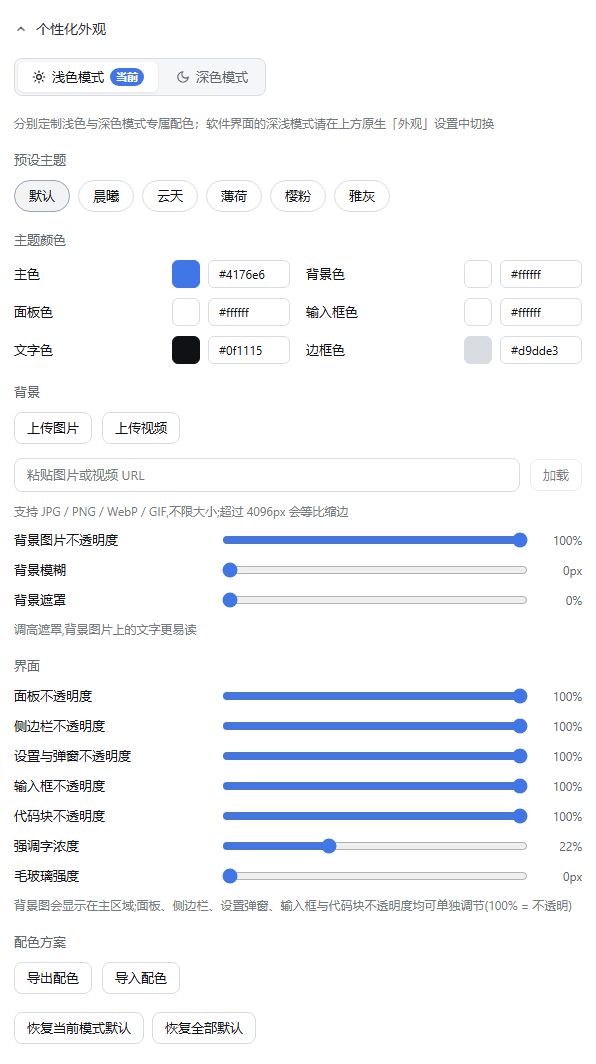
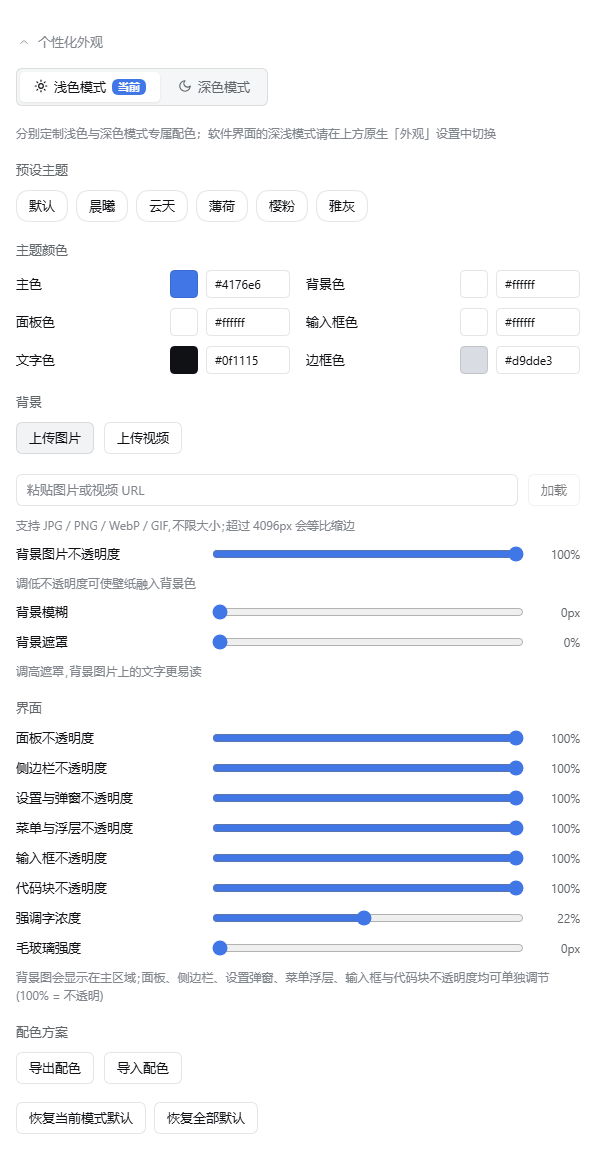
fix(applier,ui): hide translucent sidebar fade stripe, drop stale hint, and refresh docs screenshots

diff --git a/src/client/applier.ts b/src/client/applier.ts
@@ -429,6 +429,13 @@ html:not([data-ds-dark-theme]):not([data-theme="dark"]) body[data-dsw-bubble-ink
 :where(#root, body) :is([class*="_tabActive"], [class*="tabActive" i]):hover {
   --dsw-alias-interactive-bg-hover: var(--dsw-alias-interactive-bg-active);
 }
+/* Host session-list bottom fade (._fade) paints a linear-gradient to
+   --dsw-specific-sidebar-fill on top of the sidebar; when sidebarAlpha < 1 that
+   double-composites the translucent fill into a visible opaque-looking stripe
+   above the account footer (DSH itself hides ._fade on macOS vibrancy). */
+body[data-dsw-translucent-sidebar] #root :is([class*="_sidebarCol"], [class*="sidebarCol" i]) :is([class$="_fade"], [class*="_fade "]) {
+  display: none;
+}
 /* Component-level frosted glass (composer input card, attachment cards, user bubbles,
    and code blocks): glassBlur frosts only UI surfaces and never the background layer.
    IMPORTANT: The composer card ([data-composer-card] / [class*="_card"]:has([class*="_input"]))
@@ -528,6 +535,14 @@ export class AppearanceApplier {
       document.documentElement.setAttribute('data-dsw-has-bg', '')
     } else {
       document.documentElement.removeAttribute('data-dsw-has-bg')
+    }
+    const effectiveSidebarAlpha = typeof value.sidebarAlpha === 'number'
+      ? value.sidebarAlpha
+      : (value.sidebarOpaque ? 1 : value.surfaceAlpha)
+    if (effectiveSidebarAlpha < 1) {
+      body.setAttribute('data-dsw-translucent-sidebar', '')
+    } else {
+      body.removeAttribute('data-dsw-translucent-sidebar')
     }
     // The wallpaper rides a CSS variable like every other knob; the value is
     // a record key (or legacy inline data URL) and resolves asynchronously.
@@ -821,6 +836,7 @@ export class AppearanceApplier {
     body.style.removeProperty('--dsw-menu-backdrop-filter')
     body.removeAttribute('data-dsw-bubble-ink-light')
     body.removeAttribute('data-dsw-bubble-ink-dark')
+    body.removeAttribute('data-dsw-translucent-sidebar')
     body.removeAttribute('data-dsw-sliding')
     // Compositor anchor cleanup: remove the html attribute so the host's natural
     // background resumes after the plugin is unloaded.

diff --git a/tests/applier.client.spec.ts b/tests/applier.client.spec.ts
@@ -584,5 +584,28 @@ describe('AppearanceApplier', () => {
     expect(body.style.getPropertyValue('--dsw-appearance-bg-base-light')).toBe('')
     expect(body.style.getPropertyValue('--dsw-appearance-bg-base-dark')).toBe('')
   })
+
+  it('marks translucent sidebars and hides the host session-list fade stripe until opaque or disposed', () => {
+    const { ctx } = fakeCtx()
+    const applier = new AppearanceApplier(ctx)
+    const body = document.body
+    const css = document.getElementById(STYLE_ID)?.textContent ?? ''
+    expect(css).toContain('body[data-dsw-translucent-sidebar]')
+    expect(css).toContain('[class$="_fade"]')
+
+    applier.apply(full({ sidebarAlpha: 1 }))
+    expect(body.hasAttribute('data-dsw-translucent-sidebar')).toBe(false)
+
+    applier.apply(full({ sidebarAlpha: 0.4 }))
+    expect(body.hasAttribute('data-dsw-translucent-sidebar')).toBe(true)
+
+    applier.apply(full({ sidebarAlpha: 1 }))
+    expect(body.hasAttribute('data-dsw-translucent-sidebar')).toBe(false)
+
+    applier.apply(full({ sidebarAlpha: 0.2 }))
+    expect(body.hasAttribute('data-dsw-translucent-sidebar')).toBe(true)
+    applier.dispose()
+    expect(body.hasAttribute('data-dsw-translucent-sidebar')).toBe(false)
+  })
 })
 

diff --git a/src/client/locales.ts b/src/client/locales.ts
@@ -28,7 +28,6 @@ export const zh = {
   'color.border': '边框色',
   'color.invertHint': '自动反转文字颜色以保证对比度',
   'color.invertBadge': '反',
-  'color.hint': '开启颜色旁的「反」让该表面上的文字自动使用对比色：主色控制气泡内文字，背景色控制全局文字，无需手动搭配',
   'background.title': '背景',
   'background.upload': '上传图片',
   'background.replace': '更换图片',
@@ -115,7 +114,6 @@ export const en = {
   'color.border': 'Border',
   'color.invertHint': 'Auto-invert text to keep contrast',
   'color.invertBadge': 'Inv',
-  'color.hint': 'Toggle "Inv" next to a color to auto-contrast text on that surface: accent drives the bubble text, background drives the global text — no manual pairing needed',
   'background.title': 'Background',
   'background.upload': 'Upload image',
   'background.replace': 'Replace image',

diff --git a/src/client/AppearanceCustomizerRow.tsx b/src/client/AppearanceCustomizerRow.tsx
@@ -585,7 +585,6 @@ export function AppearanceCustomizerRow({
                 />
               ))}
             </div>
-            <div className={css.hint}>{t('color.hint' as AppearanceKey)}</div>
           </div>
 
           <div
